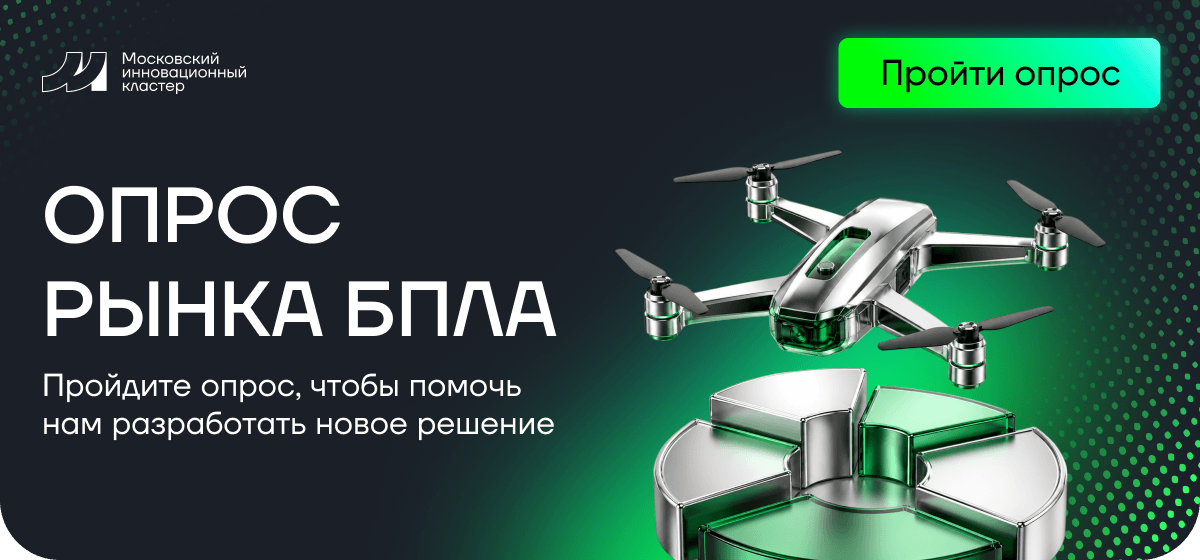
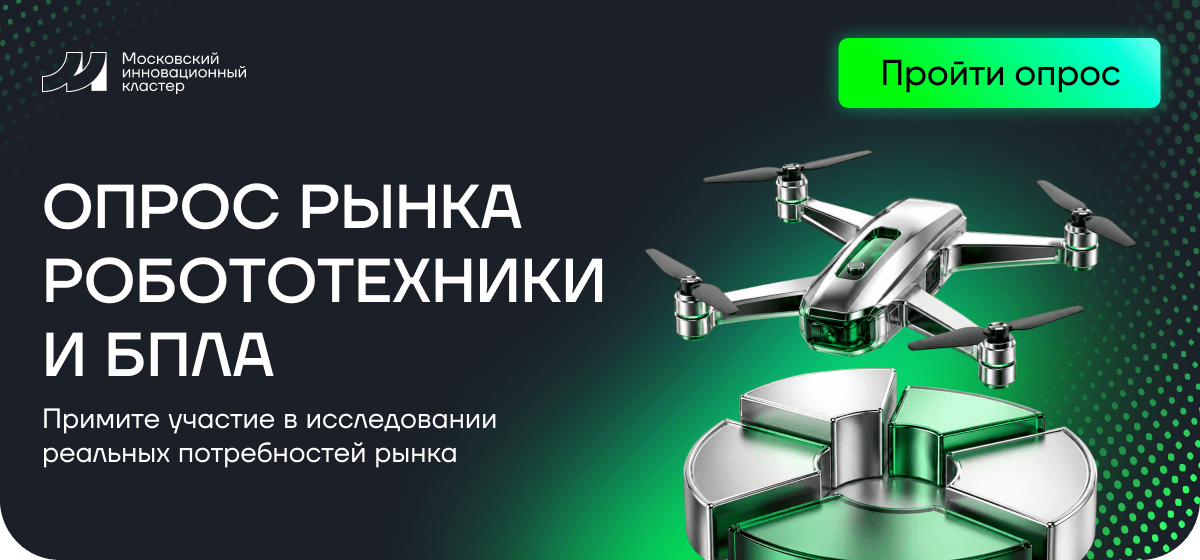
change mik-360

Changed region(s): [[0.0308, 0.2732, 0.9558, 1.0], [0.925, 0.0607, 0.9558, 0.1214]]

diff --git a/mik-360/Опрос рынка БПЛА.html b/mik-360/Опрос рынка БПЛА.html
@@ -103,7 +103,7 @@
                                         <tr>
                                             <td style="width:600px;">
                                                 <a href="https://forms.yandex.ru/u/69eb6c10d046880d347481d0/" target="_blank">
-                                                    <img alt="Опрос рынка БПЛА. Пройдите опрос, чтобы помочь нам разработать новое решение. Нажмите здесь, чтобы пройти опрос." height="auto" src="https://cp.unisender.com/ru/user_file?resource=images&user_id=5608985&name=mik-360-hero.png" style="border:0;display:block;outline:none;text-decoration:none;height:auto;width:100%;font-size:13px;" width="600" />
+                                                    <img alt="Опрос рынка робототехники и БПЛА. Примите участие в исследовании реальных потребностей рынка. Нажмите здесь, чтобы пройти опрос." height="auto" src="https://cp.unisender.com/ru/user_file?resource=images&user_id=5608985&name=mik-360-hero.png" style="border:0;display:block;outline:none;text-decoration:none;height:auto;width:100%;font-size:13px;" width="600" />
                                                 </a>
                                             </td>
                                         </tr>
@@ -137,7 +137,9 @@
                             </tr>
                             <tr>
                                 <td align="left" style="font-size:0px;word-break:break-word;padding:13px 0 14px;">
-                                    <div style="display:inline-block;color:#000000;font-family: Gilroy, Helvetica, Arial, sans-serif;text-align:left;font-size:16px;font-weight:600;line-height:120%;margin:0;text-decoration:none;text-transform:none;mso-padding-alt:0px;width:100%;border-radius:12px;min-height:70px;background: linear-gradient(79.57deg, #00FB07 19.78%, #00FED9 85.02%, #9FFFF6 103.22%);"><span style="padding:16px 15px;display:block;">Цель&nbsp;— сделать поиск партнеров быстрее, точнее и&nbsp;эффективнее для&nbsp;бизнеса. В&nbsp;фокусе&nbsp;— рынок БПЛА.</span></div>
+                                    <div style="display:inline-block;color:#000000;font-family: Gilroy, Helvetica, Arial, sans-serif;text-align:left;font-size:16px;font-weight:600;line-height:120%;margin:0;text-decoration:none;text-transform:none;mso-padding-alt:0px;width:100%;border-radius:12px;min-height:70px;background: linear-gradient(79.57deg, #00FB07 19.78%, #00FED9 85.02%, #9FFFF6 103.22%);"><span style="padding:16px 15px;display:block;">
+                                        <span style="display:block;text-align:center;max-width:65px;width:100%;border-radius:39px;min-height:24px;padding-top:3px;border: 1px solid #000000;margin-bottom:8px;">Цель</span>
+                                        Сделать поиск партнеров быстрее, точнее и&nbsp;эффективнее для&nbsp;бизнеса. В&nbsp;фокусе&nbsp;— рынок робототехники и&nbsp;БПЛА.</span></div>
                                 </td>
                             </tr>
                             <tr>
@@ -210,7 +212,7 @@
                             <tbody>
                             <tr>
                                 <td align="left" style="font-size:0px;word-break:break-word;padding-top:14px;">
-                                    <div style="font-family: Gilroy, Helvetica, Arial, sans-serif;font-size:16px;font-weight:500;line-height:120%;text-align:left;color:#000000;max-width:415px;width:100%;">вы&nbsp;влияете на&nbsp;создание инструмента, который упростит поиск исполнителей</div>
+                                    <div style="font-family: Gilroy, Helvetica, Arial, sans-serif;font-size:16px;font-weight:500;line-height:120%;text-align:left;color:#000000;max-width:356px;width:100%;">поможете создать сервис, который упростит поиск исполнителей в&nbsp;сфере робототехники</div>
                                 </td>
                             </tr>
                             </tbody>
@@ -254,7 +256,7 @@
                             <tbody>
                             <tr>
                                 <td align="left" style="font-size:0px;word-break:break-word;padding-top:14px;">
-                                    <div style="font-family: Gilroy, Helvetica, Arial, sans-serif;font-size:16px;font-weight:500;line-height:120%;text-align:left;color:#000000;max-width:400px;width:100%;">помогаете сформировать прозрачный и&nbsp;эффективный рынок услуг</div>
+                                    <div style="font-family: Gilroy, Helvetica, Arial, sans-serif;font-size:16px;font-weight:500;line-height:120%;text-align:left;color:#000000;max-width:356px;width:100%;">поможете сформировать прозрачный и&nbsp;эффективный рынок услуг</div>
                                 </td>
                             </tr>
                             </tbody>
@@ -322,7 +324,7 @@
                             <tbody>
                             <tr>
                                 <td align="center" style="font-size:0px;word-break:break-word;">
-                                    <div style="font-family: Gilroy, Helvetica, Arial, sans-serif;font-size:18px;font-weight:600;line-height:120%;text-align:center;color:#000000;max-width:400px;width:100%;">Ваш опыт поможет создать сервис, которым будете пользоваться вы&nbsp;сами</div>
+                                    <div style="font-family: Gilroy, Helvetica, Arial, sans-serif;font-size:18px;font-weight:600;line-height:120%;text-align:center;color:#000000;max-width:400px;width:100%;">Ваш опыт поможет создать новый стандарт поиска технологических партнеров</div>
                                 </td>
                             </tr>
                             </tbody>